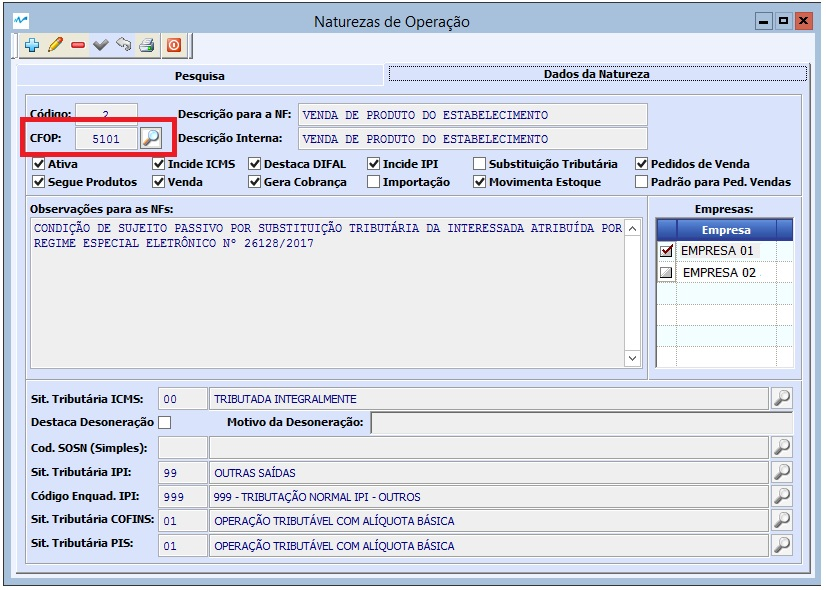
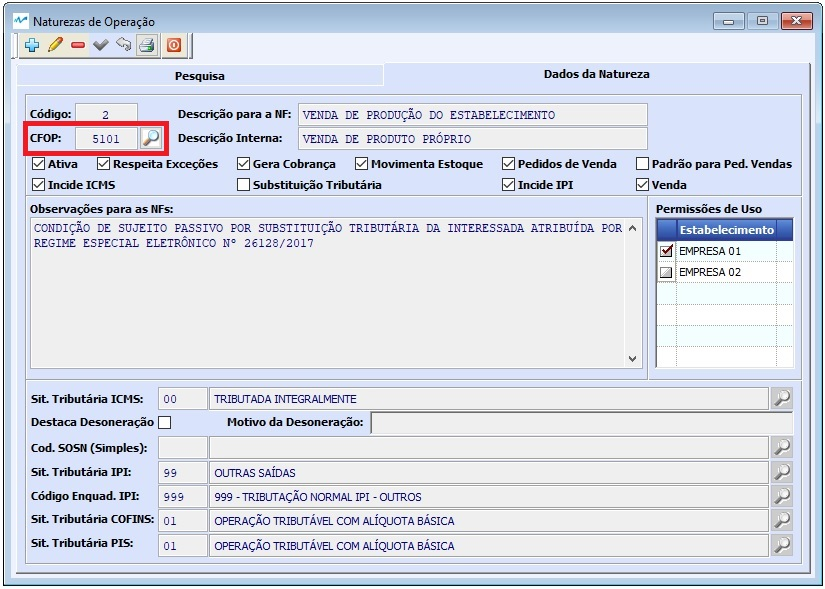
Otra

diff --git a/Pages/Natureza.md b/Pages/Natureza.md
@@ -5,28 +5,60 @@ layout: default
 ##### Se ainda não conhece a estrutura de telas do sistema, clique em <a href="https://mpc2erp.github.io/Pages/Telas" target="_blank">Telas do Sistema MPC²-ERP</a>
 
 
-# Cadastro de Naturezas de Operação
+# Cadastro de Naturezas de Operações
  
 
 O Cadastro de Naturezas de Operação é um Cadastro Chave para o bom funcionamento de Vendas, Faturamento, remessas, etc, pois é nele que se configura EXATAMENTE como as situações de de Cada Operação devem se comportar.
 
-Este cadastro é muito importante e deve ser feito com critério, pois é nele que se define toda a parte tributária e legal de uma operação.
+Este cadastro é muito importante, pois é nele que são definidos os padrões iniciais dos cálculos de tributos de uma operação.
+
+É necessário conhecimento dos conceitos tributários envolvidos para que se trabalhe de maneira correta com as informações contidas em cada Natureza de Operação.
+Recomendamos que seja acompanhado pelo(s) profissional(ais) do depatamento contábil ou escritório de contabilidade
 
 ![](Img/Natureza01.jpg) 
 
-Uma Natureza de Operação está sempre ligada a uma CFOP e tudo que ela representa.
-Repare no exemplo abaixo, usada para Vendas de produção própria dentro do estado, como está cadastrado e o que é cada informação.
+Uma Natureza de Operação está sempre ligada a uma CFOP e tudo que ela representa. Porém pode-se ter mais de uma Natureza de Operação por CFOP.
+Ao clicar no ícone de Lupa, apresentada ao lado do Código da CFOP, será apresentada a tabela das CFOP´s.
+Repare no exemplo abaixo, usada para Vendas de produção própria dentro do estado, como está o cadastrado e o que representa cada informação.
 
 ![](Img/Natureza02.jpg) 
-
-A Operação (de venda, remessa, etc ...) segue aquilo que está parametrizado na Natureza para calcular impostos e tudo mais.
+   
+A Operação (de venda, remessa, etc ...) segue aquilo que está parametrizado na Natureza para calcular impostos e tudo mais. 
 
 ![](Img/Natureza03.jpg) 
 
+Os Flags que podem ou devem ser alterados
+   - Ativa : Indica se a Natureza está liberada para ser utilizada
+   - Respeita Exceções : Indica se a Tributação segue os padrões definidos ou não
+   - Gera Cobrança : Indica se a Operação deve gerar títulos financeiros ou não
+   - Movimenta Estoque : Indica se os movimentos realizados com esta natureza movimentam o(s) estoque(s) dos produtos
+   - Pedidos de Venda : Indica se a Natureza pode ser utilizada em Pedidos de Venda
+   - Padrão para Ped. Vendas : Indica se é uma Natureza padrão para Vendas
+
+São Flags meramente informativos:
+   - Incide ICMS - Definido pela CST do ICMS
+   - Incide IPI - Definido pela CST do IPI
+   - Substituição Tributária - Definido pela CFOP e CST do ICMS
+   - Venda - Definido pela CFOP
+
 ![](Img/Natureza04.jpg) 
 
+CST - O Código da Situação Tributária. São tabelas criadas pelo governo que estabelecem  regras tributárias para cada tributo. 
+Nós da MPC² Sistemas nos baseamos rigorosamente nas regras tributárias definidas nas CSTs ou em suas exceções.
+Para cada Natureza da Operaçãos, são devinidos os seguintes códigos:
+   - CST do ICMS - Define o Comportamento básico para o cálculo do ICMS
+   - Se há desoneração do ICMS e caso haja, qual o Motivo da Desoneração
+   - CSOSN (Código da Operação para empresas do Simples). O Código SOSN é digitado para contemplar uma obrigação fiscal, porém não influencia nos calculos dos tributos, sendo obrigatório para o SISTEMA que a CST do ICMS seja preenchida, independente do regime tributário da empresa.
+   - CST do IPI - Define o comportamento básico para o IPI
+   - CST do COFINS - Define o comportamento básico para o COFINS
+   - CST do PIS - Define o comportamento básico para o PIS
 
 Para o bom funcionamento de um sistema, é imprescindível que as informações dos cadastros sejam de boa qualidade.
+
+Cridas as Naturezas de Operação, devemos lembrar que muitas regras são básicas e passíveis de exceções. As exceções conhecidas até o momento, são sempre vinculadas a uma NCM (Nomenclatura Comum do Mercosul). Sendo assim, uma NCM pode ter várias situações tributárias diferentes. Este conjunto de informações chama-se Classificações Fiscais.
+
+Conheça mais sobre as Classificações Fiscais
+
 ### Crie o hábito de realizar revisões periódicas nos seus cadastros.
 
 

diff --git a/Pages/ClasFis.md b/Pages/ClasFis.md
@@ -1,0 +1,44 @@
+---
+layout: default
+---
+
+##### Se ainda não conhece a estrutura de telas do sistema, clique em <a href="https://mpc2erp.github.io/Pages/Telas" target="_blank">Telas do Sistema MPC²-ERP</a>
+
+
+# Cadastro de Classificações Fiscais
+ 
+
+A Classificação Fiscal é o cadastro do conjunto de informações relacionados à NCM (Nomenclatura Comum do Mercosul), e uma série de configurações, que podem ser alteradas conforme o NCM. Nela, além de cadastrar o código da NCM també se cadastra o comportamento do IPI, o CEST Padrão, CST do IPI, PIS e COFINS e as variações de tributação de ICMS por estado, normalmente vinculados à NCM.
+
+Este cadastro é muito importante e deve ser feito com critério, pois é nele que se define parte da tributação e códigos legas legal de uma operação.
+
+![](Img/ClasFis01.jpg) 
+
+As informações a serem inseridas em uma Classificação Fiscal, como pode-se ver na tela acima, são:
+    - Código da NCM da Classificação
+    - Código da Excessão da TIPI (Tabela do IPI)
+    - Descrição Interna e Descrição na TIPI
+    - CEST (Código Espedificador da Substituição Tributária)
+    - CST do IPI
+    - CST do PIS
+    - CST do COFINS
+    
+
+![](Img/ClasFis02.jpg) 
+
+A Operação (de venda, remessa, etc ...) segue aquilo que está parametrizado na Natureza para calcular impostos e tudo mais.
+
+![](Img/Natureza03.jpg) 
+
+![](Img/Natureza04.jpg) 
+
+
+Para o bom funcionamento de um sistema, é imprescindível que as informações dos cadastros sejam de boa qualidade.
+### Crie o hábito de realizar revisões periódicas nos seus cadastros.
+
+
+
+
+
+
+

diff --git a/Pages/Telas.md b/Pages/Telas.md
@@ -2,6 +2,12 @@
 layout: default
 ---
 
+# Menus e Sub-Menus do Sistema MPC²-ERP
+
+Após a entrada do nome de usuário e a senha, é apresentada a tela principal do sistema, onde, na parte de cima, são apresentadas as opções do menu do sistema e logo abaixo, os ícones de atalhos.
+
+![](Img/Telas00.jpg)
+
 # Telas do Sistema MPC²-ERP
 
 
